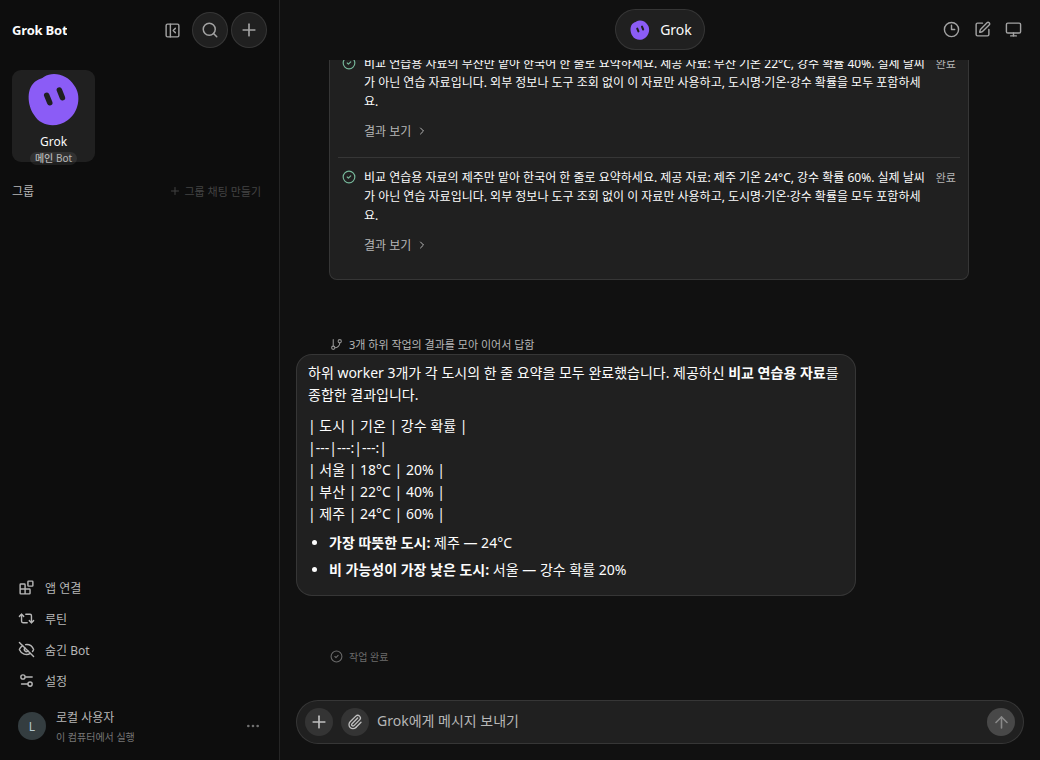
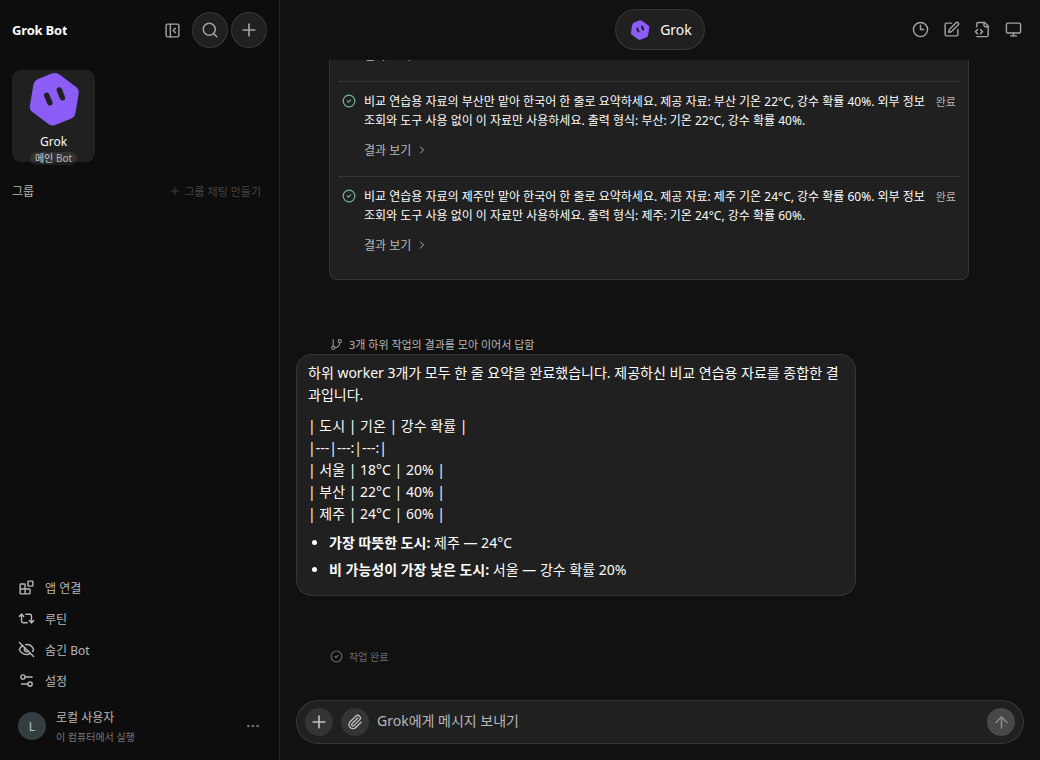
docs: refresh worker evidence after own-conversation and chain integration

Changed region(s): [[0.3385, 0.0303, 0.9538, 0.3026], [0.4, 0.4842, 0.8, 0.5145], [0.2769, 0.5145, 0.4, 0.5447]]

diff --git a/docs/evidence/issue-14/README.md b/docs/evidence/issue-14/README.md
@@ -4,8 +4,8 @@ Every image here is an actual Chrome capture of the application, not a mockup. C
 
 ## Matched Before / After
 
-- **Before source:** `3c111316bc4ba4b1d540c4b9e4e218be868b1df1`, current merged main including PR #24, built in a clean detached worktree (Rust server and frontend).
-- **After source:** `c965bdd5cb3a4eeec09d81bec37482dadffca667` (the following commit refreshes evidence only).
+- **Before source:** `c07a1cfec41e84ab86e566e7c72e3684dae1c31c`, latest merged main including Bot chains, selected report cancellation, Canvas and own-conversation routing, built in a source-clean detached worktree (Rust server and frontend).
+- **After source:** `7c4a69e1ab665ad1789eba5acc819285e9563286` (the following commit refreshes evidence only).
 - Same scenario: send `제공한 예시 기온 자료를 서울·부산·제주로 나눠 확인하고, 세 도시의 결과를 모아 비교해 줘.` A scripted provider discovers `workspace spawn_worker` and attempts three distinct tasks. Hold the next parent inference so both captures show the parent still running immediately after those attempts.
 - The old engine/app really rejects the nonexistent tool. The changed app asks for each new task's one-use approval, queues three hidden workers and renders their progress. No worker is allowed to start while the parent is held.
 - Same browser locale `ko-KR`, timezone `Asia/Seoul`, dark theme, explicit blob avatar and viewport: 1040 × 760 desktop / 390 × 844 mobile. The after view scrolls to the added progress panel as chat content grows.
@@ -37,11 +37,11 @@ No extra worker-specific instructions were added to the fixture Bot. [Ordinary-q
 
 - Frontend strict TypeScript and production build: passed.
 - Rust formatting and strict clippy for model/store/core: passed.
-- Model/store: 125 tests passed, including 21 worker/retention/authorization/invariant scenarios.
-- Core: 96 tests passed (85 unit and 11 integration binaries), including signal-first cancellation on failed writes, conditional catalogs, guarded actual-engine cache cleanup, #24 queued-report cancellation and the existing real-engine scenarios. The workspace-pinning/legacy-no-file scenario was then added and the runtime integration binary passed again.
-- Rebased frontend state selectors: 5 passed. The original implementation's full Node regression passed 106 tests with `--test-concurrency=1`; its initial parallel run hit the existing byte-capacity test's wait, and the isolated/serial reruns passed without modifying that test.
-- New worker Chrome suite: 5 passed (1040/390/320 px, Stop, denial).
-- Rebased existing report/group/thread Chrome regression: 7 passed, including both desktop/mobile #24 queued-report cancellation scenarios.
+- Merged model/store: 173 tests passed, including worker/retention/authorization/invariant, chain/storage and Canvas scenarios.
+- Merged core: 105 tests passed (92 unit and 13 integration binaries), including mixed chain+worker Stop, signal-first cancellation on failed writes, selected-report cancellation without stopping workers, scoped fast-settlement ownership, guarded cache cleanup, workspace pinning, and all inherited worker/chain/Canvas/todo/MCP engine scenarios.
+- Focused frontend state/composer/preview regression: 86 passed (8 state tests explicitly preserving own-conversation defaults/previews with worker batches, 4 composer, 74 preview). All original main state tests and the worker test remain.
+- Actual Rust-server/engine Chrome regression: 24 passed — 5 worker scenarios, 9 Bot-report/chain/selected-cancel scenarios, 6 Canvas, 1 history, and 3 UI parity. The report case explicitly verifies that clicking Reviewer after reload opens its own writable chat rather than the newer recipient-request conversation (#44).
+- The merged `7c4a69e` remote CI run also passed all five required checks. Final evidence-only head is checked separately in the PR record.
 - Human review corrections add optional/scoped worker guidance, terminal history retention, signal-first cancellation on storage failure, approval-time workspace binding, pre-write ownership validation, queued-only input unlocking and one visible invocation row per worker. Tests cover these boundaries; source/interface independent review is recorded in the PR after the final revision is fixed. The earlier Stop/report-completion and long-task compactness regressions remain covered.
 - The scripted comparisons and actual-model smoke each reported zero page errors. Mechanical interface detector reported no findings.
 
